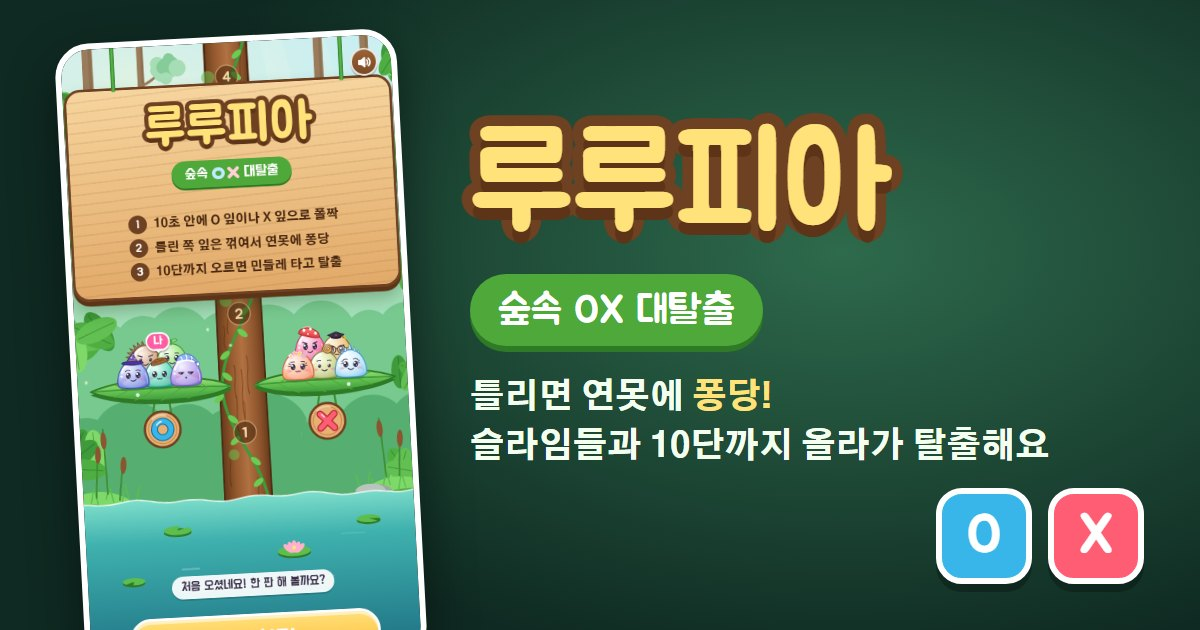
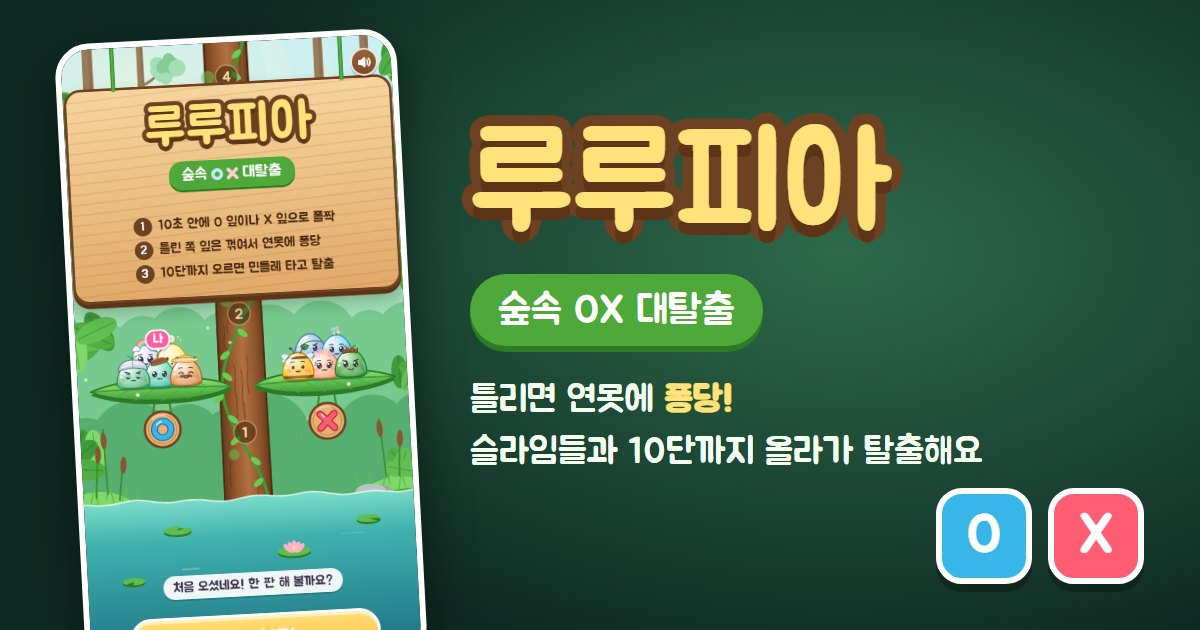
Make Lulupia text larger and switch sentences to the Jua font
Small labels grew and now have a minimum size, and wide screens scale the
question board, title board and results up with the extra room. Questions,
explanations, rules, the results list and speech bubbles use Jua instead of
the narrow display font; big titles, buttons and numbers keep it.

diff --git a/lulupia/index.html b/lulupia/index.html
@@ -21,7 +21,7 @@
 <style>:root{padding-top:env(safe-area-inset-top,0px);padding-bottom:env(safe-area-inset-bottom,0px)}[hidden]{display:none!important}</style>
 <link rel="preconnect" href="https://fonts.googleapis.com">
 <link rel="preconnect" href="https://fonts.gstatic.com" crossorigin>
-<link rel="stylesheet" href="https://fonts.googleapis.com/css2?family=Do+Hyeon&family=Jua&family=Gothic+A1:wght@500;700;800&display=swap">
+<link rel="stylesheet" href="https://fonts.googleapis.com/css2?family=Do+Hyeon&family=Jua&display=swap">
 <style>
 /* 레이아웃 : 화면 가운데 세로로 긴 게임 한 장(9:17). 폰에서는 화면을 꽉 채우고, 넓은 화면에서는 숲 바탕 위에 놓인다.
    게임 안은 calc(var(--u)*1) = 게임 폭의 1%, 세로는 calc(var(--u)*188.9). 숲 세계는 한 장으로 단마다 아래로 내려간다. */
@@ -30,13 +30,13 @@
   --o:#38B6EA; --o-deep:#1A6FA0; --x:#FF5D73; --x-deep:#B8283A; --me:#FF5FA2; --gold:#FFD45A;
   --display:"Do Hyeon","Jua","Apple SD Gothic Neo","Malgun Gothic",sans-serif;
   --logo:"Jua","Do Hyeon","Apple SD Gothic Neo","Malgun Gothic",sans-serif;
-  --body:"Gothic A1","Apple SD Gothic Neo","Malgun Gothic",sans-serif;
+  --body:"Jua","Apple SD Gothic Neo","Malgun Gothic",sans-serif;
   color-scheme:light;
 }
 html{height:100%;box-sizing:border-box;background:var(--shell)}
 body{height:100%;margin:0;background:radial-gradient(90% 60% at 50% 40%,var(--shell-hi),var(--shell) 75%);color:var(--ink);font-family:var(--body);overflow:hidden}
 .shell{height:100%;container-type:size;display:grid;place-items:center}
-.game{position:relative;width:100%;height:100%;--u:min(1cqw,100cqh / 188.9);overflow:hidden;isolation:isolate;user-select:none;-webkit-user-select:none;touch-action:manipulation;-webkit-tap-highlight-color:transparent;font-family:var(--display);color:#fff;background:#A6E2FA;box-shadow:0 0 60px rgba(0,0,0,.4)}
+.game{position:relative;width:100%;height:100%;--u:min(1cqw,100cqh / 188.9);overflow:hidden;isolation:isolate;user-select:none;-webkit-user-select:none;touch-action:manipulation;-webkit-tap-highlight-color:transparent;font-family:var(--logo);color:#fff;background:#A6E2FA;box-shadow:0 0 60px rgba(0,0,0,.4)}
 .game canvas{position:absolute;left:0;display:block;pointer-events:none}
 .world{top:0;transition:transform 1.5s cubic-bezier(.45,.05,.25,1);will-change:transform}
 .water{z-index:5}
@@ -46,9 +46,9 @@ body{height:100%;margin:0;background:radial-gradient(90% 60% at 50% 40%,var(--sh
 .crowd{position:absolute;inset:0;z-index:3;pointer-events:none}
 .sl{position:absolute;left:0;top:0;width:calc(var(--u)*12);height:calc(var(--u)*12);transform-origin:50% 100%;will-change:transform}
 .sl svg{display:block;width:100%;height:100%;overflow:visible}
-.me-tag{position:absolute;left:50%;bottom:96%;translate:-50% 0;font-family:var(--logo);font-size:calc(var(--u)*3.5);line-height:1;color:#fff;background:var(--me);border:calc(var(--u)*.55) solid #fff;border-radius:calc(var(--u)*3);padding:calc(var(--u)*.7) calc(var(--u)*1.7) calc(var(--u)*.5);box-shadow:0 calc(var(--u)*.6) 0 rgba(60,20,40,.25);white-space:nowrap;animation:tagbob 1.1s ease-in-out infinite}
+.me-tag{position:absolute;left:50%;bottom:96%;translate:-50% 0;font-family:var(--logo);font-size:max(12px,calc(var(--u)*3.8));line-height:1;color:#fff;background:var(--me);border:calc(var(--u)*.55) solid #fff;border-radius:calc(var(--u)*3);padding:calc(var(--u)*.7) calc(var(--u)*1.7) calc(var(--u)*.5);box-shadow:0 calc(var(--u)*.6) 0 rgba(60,20,40,.25);white-space:nowrap;animation:tagbob 1.1s ease-in-out infinite}
 .me-tag::after{content:"";position:absolute;left:50%;top:100%;translate:-50% calc(var(--u)*-.1);border:calc(var(--u)*1.3) solid transparent;border-top-color:#fff;border-bottom:0}
-.cnt{position:absolute;display:grid;place-items:center;min-width:calc(var(--u)*6.4);height:calc(var(--u)*6.4);padding:0 calc(var(--u)*1.4);border-radius:calc(var(--u)*3.2);font-family:var(--logo);font-size:calc(var(--u)*3.8);line-height:1;color:#fff;background:var(--ink);border:calc(var(--u)*.5) solid #fff;box-shadow:0 calc(var(--u)*.5) 0 rgba(0,0,0,.2);transition:transform .2s}
+.cnt{position:absolute;display:grid;place-items:center;min-width:calc(var(--u)*6.4);height:calc(var(--u)*6.4);padding:0 calc(var(--u)*1.4);border-radius:calc(var(--u)*3.2);font-family:var(--logo);font-size:max(13px,calc(var(--u)*4));line-height:1;color:#fff;background:var(--ink);border:calc(var(--u)*.5) solid #fff;box-shadow:0 calc(var(--u)*.5) 0 rgba(0,0,0,.2);transition:transform .2s}
 .cnt.bump{transform:scale(1.25)}
 .game[data-state="title"] .cnt{display:none}
 .leaf.broken{pointer-events:none}
@@ -60,7 +60,7 @@ body{height:100%;margin:0;background:radial-gradient(90% 60% at 50% 40%,var(--sh
 .ring{position:absolute;left:calc(var(--u)*-1.4);right:calc(var(--u)*-1.4);top:71%;height:calc(var(--u)*4.6);border-radius:50%;background:repeating-conic-gradient(from 10deg,#FF8DB8 0 30deg,#FFF6FA 0 60deg);border:calc(var(--u)*.45) solid #C9507E;box-shadow:inset 0 calc(var(--u)*-.8) 0 rgba(150,40,80,.25)}
 .ring::after{content:"";position:absolute;left:24%;right:24%;top:20%;height:34%;border-radius:50%;background:rgba(40,60,70,.35)}
 .bob.sink{transition:transform 1.1s ease-in,opacity 1.1s ease-in;transform:translateY(calc(var(--u)*7));opacity:0}
-.say{position:absolute;left:50%;bottom:104%;translate:-50% 0;white-space:nowrap;font-family:var(--body);font-weight:800;font-size:calc(var(--u)*2.9);line-height:1.2;color:var(--ink);background:#fff;border-radius:calc(var(--u)*2.4);padding:calc(var(--u)*1) calc(var(--u)*1.8);box-shadow:0 calc(var(--u)*.5) 0 rgba(0,0,0,.15);animation:say 2.4s ease forwards}
+.say{position:absolute;left:50%;bottom:104%;translate:-50% 0;white-space:nowrap;font-family:var(--body);font-weight:400;font-size:max(12px,calc(var(--u)*3.5*var(--fs,1)));line-height:1.2;color:var(--ink);background:#fff;border-radius:calc(var(--u)*2.4);padding:calc(var(--u)*1) calc(var(--u)*1.8);box-shadow:0 calc(var(--u)*.5) 0 rgba(0,0,0,.15);animation:say 2.4s ease forwards}
 .say::after{content:"";position:absolute;left:50%;top:100%;translate:-50% calc(var(--u)*-.1);border:calc(var(--u)*1) solid transparent;border-top-color:#fff;border-bottom:0}
 .seed{position:absolute;left:50%;bottom:78%;width:calc(var(--u)*11);translate:-50% 0;transform-origin:50% 100%;animation:seedin .5s cubic-bezier(.2,1.6,.4,1) both}
 .motes{position:absolute;inset:0;z-index:1;pointer-events:none}
@@ -68,7 +68,7 @@ body{height:100%;margin:0;background:radial-gradient(90% 60% at 50% 40%,var(--sh
 
 /* 머리 줄 */
 .hud{position:absolute;z-index:9;left:calc(var(--u)*4);right:calc(var(--u)*4);top:calc(var(--u)*3.4);display:flex;align-items:center;gap:calc(var(--u)*2);pointer-events:none}
-.chip{display:flex;align-items:center;gap:calc(var(--u)*1.6);height:calc(var(--u)*8.4);padding:0 calc(var(--u)*2.8);border-radius:calc(var(--u)*4.2);font-size:calc(var(--u)*4.4);line-height:1;white-space:nowrap;color:#FFF3D6;background:linear-gradient(#9A6236,#7A4A26);border:calc(var(--u)*.55) solid rgba(255,255,255,.85);box-shadow:0 calc(var(--u)*.7) 0 rgba(0,0,0,.2)}
+.chip{display:flex;align-items:center;gap:calc(var(--u)*1.6);height:calc(var(--u)*8.4);padding:0 calc(var(--u)*2.8);border-radius:calc(var(--u)*4.2);font-size:max(14px,calc(var(--u)*4.4));line-height:1;white-space:nowrap;color:#FFF3D6;background:linear-gradient(#9A6236,#7A4A26);border:calc(var(--u)*.55) solid rgba(255,255,255,.85);box-shadow:0 calc(var(--u)*.7) 0 rgba(0,0,0,.2)}
 .chip.lv b{font-weight:400;font-size:calc(var(--u)*4.8);min-width:calc(var(--u)*6.6)}
 .pips{display:flex;gap:calc(var(--u)*.55)}
 .pips i{width:calc(var(--u)*1.5);height:calc(var(--u)*3.6);border-radius:calc(var(--u)*.75);background:rgba(255,255,255,.3)}
@@ -84,21 +84,21 @@ body[data-mute] .snd .off{display:block}
 .game[data-state="title"] .chip.lv,.game[data-state="title"] .chip.alive{visibility:hidden}
 
 /* 문제 판 : 덩굴에 매달린 나무판 */
-.card{position:absolute;z-index:8;left:50%;width:min(calc(100% - calc(var(--u)*10)),calc(var(--u)*150));translate:-50% 0;top:calc(var(--u)*14);padding:calc(var(--u)*3.4) calc(var(--u)*4) calc(var(--u)*3.6);display:flex;flex-direction:column;gap:calc(var(--u)*2.4);color:#4A2810;border-radius:calc(var(--u)*4.4);border:calc(var(--u)*.9) solid var(--wood);background:radial-gradient(circle at calc(var(--u)*3.2) calc(var(--u)*3.2),var(--wood-dk) calc(var(--u)*.9),transparent calc(var(--u)*1.1)),radial-gradient(circle at calc(100% - calc(var(--u)*3.2)) calc(var(--u)*3.2),var(--wood-dk) calc(var(--u)*.9),transparent calc(var(--u)*1.1)),repeating-linear-gradient(176deg,rgba(122,74,34,.13) 0 calc(var(--u)*.45),transparent calc(var(--u)*.45) calc(var(--u)*3.1)),linear-gradient(#F7D59E,#E2AA6A);box-shadow:0 calc(var(--u)*1.3) 0 var(--wood-dk),0 calc(var(--u)*3) calc(var(--u)*5) rgba(30,60,20,.28)}
+.card{position:absolute;z-index:8;left:50%;width:min(calc(100% - calc(var(--u)*10)),calc(var(--u)*150*var(--fs,1)));translate:-50% 0;top:calc(var(--u)*14);padding:calc(var(--u)*3.4) calc(var(--u)*4) calc(var(--u)*3.6);display:flex;flex-direction:column;gap:calc(var(--u)*2.4);color:#4A2810;border-radius:calc(var(--u)*4.4);border:calc(var(--u)*.9) solid var(--wood);background:radial-gradient(circle at calc(var(--u)*3.2) calc(var(--u)*3.2),var(--wood-dk) calc(var(--u)*.9),transparent calc(var(--u)*1.1)),radial-gradient(circle at calc(100% - calc(var(--u)*3.2)) calc(var(--u)*3.2),var(--wood-dk) calc(var(--u)*.9),transparent calc(var(--u)*1.1)),repeating-linear-gradient(176deg,rgba(122,74,34,.13) 0 calc(var(--u)*.45),transparent calc(var(--u)*.45) calc(var(--u)*3.1)),linear-gradient(#F7D59E,#E2AA6A);box-shadow:0 calc(var(--u)*1.3) 0 var(--wood-dk),0 calc(var(--u)*3) calc(var(--u)*5) rgba(30,60,20,.28)}
 .card::before,.card::after,.sign::before,.sign::after{content:"";position:absolute;top:calc(var(--u)*-16);width:calc(var(--u)*1.3);height:calc(var(--u)*16.6);border-radius:calc(var(--u)*.7);background:linear-gradient(90deg,#2F7A26,#5DBE4E 50%,#2F7A26);z-index:-1}
 .card::before,.sign::before{left:14%}
 .card::after,.sign::after{right:14%}
 .c-row{display:flex;align-items:center;gap:calc(var(--u)*2)}
-.tag{font-size:calc(var(--u)*3.9);line-height:1;padding:calc(var(--u)*1.2) calc(var(--u)*2.6) calc(var(--u)*1);color:#fff;background:var(--leaf);border-radius:calc(var(--u)*3.4) calc(var(--u)*.6) calc(var(--u)*3.4) calc(var(--u)*.6);box-shadow:0 calc(var(--u)*.5) 0 var(--leaf-dk)}
-.qn{font-size:calc(var(--u)*3.9);opacity:.75}
+.tag{font-size:max(14px,calc(var(--u)*4.1*var(--fs,1)));line-height:1;padding:calc(var(--u)*1.2) calc(var(--u)*2.6) calc(var(--u)*1);color:#fff;background:var(--leaf);border-radius:calc(var(--u)*3.4) calc(var(--u)*.6) calc(var(--u)*3.4) calc(var(--u)*.6);box-shadow:0 calc(var(--u)*.5) 0 var(--leaf-dk)}
+.qn{font-size:max(14px,calc(var(--u)*4.1*var(--fs,1)));opacity:.75}
 .clock{margin-left:auto;display:grid;place-items:center;width:calc(var(--u)*10);height:calc(var(--u)*10);border-radius:50%;font-size:calc(var(--u)*5.6);line-height:1;background:#FFF6E2;border:calc(var(--u)*.8) solid var(--wood);color:#4A2810;box-shadow:0 calc(var(--u)*.6) 0 var(--wood-dk)}
 .clock.hurry{animation:hurry .5s ease-in-out infinite;background:#FFE0D6;color:#C2331E;border-color:#C2331E}
-.q{margin:0;font-size:calc(var(--u)*5.9);line-height:1.34;word-break:keep-all;overflow-wrap:break-word;text-wrap:balance}
-.q.long{font-size:calc(var(--u)*5.2)}
+.q{margin:0;font-size:max(19px,calc(var(--u)*6.1*var(--fs,1)));line-height:1.34;word-break:keep-all;overflow-wrap:break-word;text-wrap:balance}
+.q.long{font-size:max(18px,calc(var(--u)*5.5*var(--fs,1)))}
 .bar{height:calc(var(--u)*2.6);border-radius:calc(var(--u)*1.3);overflow:hidden;background:rgba(94,52,24,.22)}
 .bar i{display:block;height:100%;transform-origin:left center;background:linear-gradient(90deg,#3E9A3A,#7FD86A)}
-.ans{display:flex;gap:calc(var(--u)*2.2);align-items:baseline;padding-right:calc(var(--u)*15);font-family:var(--body);font-weight:700;font-size:calc(var(--u)*3.6);line-height:1.5}
-.ans b{flex:none;font-family:var(--display);font-weight:400;font-size:calc(var(--u)*4.6);color:var(--leaf-dk)}
+.ans{display:flex;gap:calc(var(--u)*2.2);align-items:baseline;padding-right:calc(var(--u)*18);font-family:var(--body);font-weight:400;font-size:max(15px,calc(var(--u)*4*var(--fs,1)));line-height:1.5}
+.ans b{flex:none;font-family:var(--display);font-weight:400;font-size:max(17px,calc(var(--u)*4.8*var(--fs,1)));color:var(--leaf-dk)}
 .stamp{position:absolute;right:calc(var(--u)*3.4);bottom:calc(var(--u)*2.4);display:grid;place-items:center;width:calc(var(--u)*15);height:calc(var(--u)*15);border-radius:50%;border:calc(var(--u)*1) solid currentColor;rotate:-14deg;background:rgba(255,255,255,.55)}
 .stamp .glyph{--gs:calc(var(--u)*7)}
 .stamp.o{color:var(--o-deep)}
@@ -128,30 +128,30 @@ body[data-mute] .snd .off{display:block}
 .startbtn:active,.cta:active{transform:translateY(calc(var(--u)*1.2));box-shadow:0 calc(var(--u)*.4) 0 #C9790C,inset 0 calc(var(--u)*1) 0 rgba(255,255,255,.55)}
 .cta.sub{background:linear-gradient(#9BE36E,#4FA83A);box-shadow:0 calc(var(--u)*1.6) 0 var(--leaf-dk),inset 0 calc(var(--u)*1) 0 rgba(255,255,255,.45);text-shadow:0 calc(var(--u)*.5) 0 rgba(20,80,20,.4)}
 .cta.sub:active{box-shadow:0 calc(var(--u)*.4) 0 var(--leaf-dk),inset 0 calc(var(--u)*1) 0 rgba(255,255,255,.45)}
-.watchbar{position:absolute;z-index:8;left:50%;translate:-50% 0;width:min(calc(100% - calc(var(--u)*10)),calc(var(--u)*100));bottom:calc(var(--u)*4.6);height:calc(var(--u)*17);display:flex;align-items:center;gap:calc(var(--u)*3);padding:0 calc(var(--u)*3) 0 calc(var(--u)*5);border-radius:calc(var(--u)*6.5);background:rgba(40,60,50,.72);border:calc(var(--u)*.6) solid rgba(255,255,255,.7);font-size:calc(var(--u)*4.6)}
+.watchbar{position:absolute;z-index:8;left:50%;translate:-50% 0;width:min(calc(100% - calc(var(--u)*10)),calc(var(--u)*100));bottom:calc(var(--u)*4.6);height:calc(var(--u)*17);display:flex;align-items:center;gap:calc(var(--u)*3);padding:0 calc(var(--u)*3) 0 calc(var(--u)*5);border-radius:calc(var(--u)*6.5);background:rgba(40,60,50,.72);border:calc(var(--u)*.6) solid rgba(255,255,255,.7);font-size:max(16px,calc(var(--u)*4.8*var(--fs,1)))}
 .watchbar span{flex:1;min-width:0}
 .watchbar .cta{height:calc(var(--u)*11);padding:0 calc(var(--u)*4);font-size:calc(var(--u)*4.6);border-width:calc(var(--u)*.6);border-radius:calc(var(--u)*5)}
 
 /* 처음 화면 */
-.sign{position:absolute;z-index:8;left:50%;width:min(calc(100% - calc(var(--u)*12)),calc(var(--u)*112));translate:-50% 0;top:calc(var(--u)*12);padding:calc(var(--u)*5) calc(var(--u)*5) calc(var(--u)*4.6);display:flex;flex-direction:column;align-items:center;gap:calc(var(--u)*3);border-radius:calc(var(--u)*5);border:calc(var(--u)*.9) solid var(--wood);background:repeating-linear-gradient(176deg,rgba(122,74,34,.12) 0 calc(var(--u)*.45),transparent calc(var(--u)*.45) calc(var(--u)*3.1)),linear-gradient(#F7D59E,#E2AA6A);box-shadow:0 calc(var(--u)*1.4) 0 var(--wood-dk),0 calc(var(--u)*3) calc(var(--u)*5) rgba(30,60,20,.3)}
+.sign{position:absolute;z-index:8;left:50%;width:min(calc(100% - calc(var(--u)*12)),calc(var(--u)*112*var(--fs,1)));translate:-50% 0;top:calc(var(--u)*12);padding:calc(var(--u)*5) calc(var(--u)*5) calc(var(--u)*4.6);display:flex;flex-direction:column;align-items:center;gap:calc(var(--u)*3);border-radius:calc(var(--u)*5);border:calc(var(--u)*.9) solid var(--wood);background:repeating-linear-gradient(176deg,rgba(122,74,34,.12) 0 calc(var(--u)*.45),transparent calc(var(--u)*.45) calc(var(--u)*3.1)),linear-gradient(#F7D59E,#E2AA6A);box-shadow:0 calc(var(--u)*1.4) 0 var(--wood-dk),0 calc(var(--u)*3) calc(var(--u)*5) rgba(30,60,20,.3)}
 .logo{margin:0;font-family:var(--logo);font-weight:400;font-size:calc(var(--u)*15.5);line-height:1;letter-spacing:calc(var(--u)*.4);color:#FFE27A;paint-order:stroke fill;-webkit-text-stroke:calc(var(--u)*2.6) var(--wood);text-shadow:0 calc(var(--u)*1.4) 0 var(--wood-dk)}
-.ribbon{display:flex;align-items:center;gap:calc(var(--u)*1.6);margin-top:calc(var(--u)*-1);padding:calc(var(--u)*1.4) calc(var(--u)*4) calc(var(--u)*1.2);border-radius:calc(var(--u)*4);background:var(--leaf);box-shadow:0 calc(var(--u)*.6) 0 var(--leaf-dk);font-size:calc(var(--u)*4.6);color:#fff}
+.ribbon{display:flex;align-items:center;gap:calc(var(--u)*1.6);margin-top:calc(var(--u)*-1);padding:calc(var(--u)*1.4) calc(var(--u)*4) calc(var(--u)*1.2);border-radius:calc(var(--u)*4);background:var(--leaf);box-shadow:0 calc(var(--u)*.6) 0 var(--leaf-dk);font-size:max(16px,calc(var(--u)*4.8*var(--fs,1)));color:#fff}
 .ribbon .glyph{--gs:calc(var(--u)*3.8);margin:0 calc(var(--u)*-.4)}
 .ribbon .o{color:#BFEAFF}
 .ribbon .x{color:#FFD0D6}
-.how{list-style:none;margin:0;padding:0;display:grid;gap:calc(var(--u)*1.6);font-family:var(--body);font-weight:800;font-size:calc(var(--u)*3.7);line-height:1.35;color:#4A2810}
+.how{list-style:none;margin:0;padding:0;display:grid;gap:calc(var(--u)*1.6);font-family:var(--body);font-weight:400;font-size:max(15px,calc(var(--u)*4.1*var(--fs,1)));line-height:1.35;color:#4A2810}
 .how li{display:flex;align-items:center;gap:calc(var(--u)*2)}
-.how b{flex:none;display:grid;place-items:center;width:calc(var(--u)*5.6);height:calc(var(--u)*5.6);border-radius:50%;font-family:var(--display);font-weight:400;font-size:calc(var(--u)*3.6);color:#fff;background:var(--wood)}
+.how b{flex:none;display:grid;place-items:center;width:calc(var(--u)*5.6);height:calc(var(--u)*5.6);border-radius:50%;font-family:var(--display);font-weight:400;font-size:max(13px,calc(var(--u)*3.8*var(--fs,1)));color:#fff;background:var(--wood)}
 .recs{position:absolute;z-index:8;left:calc(var(--u)*4);right:calc(var(--u)*4);bottom:calc(var(--u)*27);display:flex;flex-wrap:wrap;justify-content:center;gap:calc(var(--u)*1.6)}
-.recs span{font-size:calc(var(--u)*3.8);line-height:1;padding:calc(var(--u)*1.6) calc(var(--u)*2.8) calc(var(--u)*1.4);border-radius:calc(var(--u)*3.4);background:rgba(255,255,255,.92);color:var(--ink);box-shadow:0 calc(var(--u)*.5) 0 rgba(0,0,0,.15)}
+.recs span{font-size:max(14px,calc(var(--u)*4*var(--fs,1)));line-height:1;padding:calc(var(--u)*1.6) calc(var(--u)*2.8) calc(var(--u)*1.4);border-radius:calc(var(--u)*3.4);background:rgba(255,255,255,.92);color:var(--ink);box-shadow:0 calc(var(--u)*.5) 0 rgba(0,0,0,.15)}
 .recs b{font-weight:400;color:#C2410C}
 
-.toast{position:absolute;z-index:9;left:50%;top:calc(var(--u)*68);translate:-50% 0;max-width:calc(var(--u)*86);text-align:center;font-size:calc(var(--u)*5);line-height:1.3;padding:calc(var(--u)*2.6) calc(var(--u)*4.4) calc(var(--u)*2.4);border-radius:calc(var(--u)*4.4);color:var(--ink);background:#fff;box-shadow:0 calc(var(--u)*1) 0 rgba(0,0,0,.18);pointer-events:none}
+.toast{position:absolute;z-index:9;left:50%;top:calc(var(--u)*68);translate:-50% 0;max-width:calc(var(--u)*86*var(--fs,1));text-align:center;font-size:max(17px,calc(var(--u)*5.2*var(--fs,1)));line-height:1.3;padding:calc(var(--u)*2.6) calc(var(--u)*4.4) calc(var(--u)*2.4);border-radius:calc(var(--u)*4.4);color:var(--ink);background:#fff;box-shadow:0 calc(var(--u)*1) 0 rgba(0,0,0,.18);pointer-events:none}
 .toast.show{animation:toast 2s ease forwards}
 
 .banner{position:absolute;inset:0;z-index:10;display:grid;place-items:center;align-content:center;gap:calc(var(--u)*3);padding:0 calc(var(--u)*8);text-align:center;background:radial-gradient(70% 45% at 50% 46%,rgba(20,30,50,.55),rgba(20,30,50,0) 100%)}
 .b-title{margin:0;font-size:calc(var(--u)*17);line-height:1;letter-spacing:calc(var(--u)*.3);paint-order:stroke fill;-webkit-text-stroke:calc(var(--u)*2.4) #1E5E7A;color:#fff;text-shadow:0 calc(var(--u)*1.6) 0 rgba(0,0,0,.22)}
-.b-sub{margin:0;font-family:var(--body);font-weight:800;font-size:calc(var(--u)*4.2);line-height:1.5;padding:calc(var(--u)*2.2) calc(var(--u)*4);border-radius:calc(var(--u)*4);background:rgba(255,255,255,.95);color:var(--ink);box-shadow:0 calc(var(--u)*.8) 0 rgba(0,0,0,.18)}
+.b-sub{margin:0;font-family:var(--body);font-weight:400;font-size:max(15px,calc(var(--u)*4.4*var(--fs,1)));line-height:1.5;padding:calc(var(--u)*2.2) calc(var(--u)*4);border-radius:calc(var(--u)*4);background:rgba(255,255,255,.95);color:var(--ink);box-shadow:0 calc(var(--u)*.8) 0 rgba(0,0,0,.18)}
 .b-btns{display:flex;gap:calc(var(--u)*3)}
 .b-btns .cta{height:calc(var(--u)*13);padding:0 calc(var(--u)*5);font-size:calc(var(--u)*5.4)}
 .banner.in .b-title{animation:titlepop .6s cubic-bezier(.2,1.5,.4,1) both}
@@ -160,7 +160,7 @@ body[data-mute] .snd .off{display:block}
 
 /* 결과판 */
 .result{position:absolute;inset:0;z-index:11;display:grid;place-items:center;padding:calc(var(--u)*6) calc(var(--u)*5);background:rgba(20,40,30,.55);backdrop-filter:blur(1.5px)}
-.r-card{position:relative;width:100%;max-width:calc(var(--u)*112);max-height:100%;overflow-y:auto;overscroll-behavior:contain;display:flex;flex-direction:column;align-items:center;gap:calc(var(--u)*3);padding:calc(var(--u)*5) calc(var(--u)*5) calc(var(--u)*5.4);border-radius:calc(var(--u)*5);border:calc(var(--u)*.9) solid var(--wood);background:repeating-linear-gradient(176deg,rgba(122,74,34,.1) 0 calc(var(--u)*.45),transparent calc(var(--u)*.45) calc(var(--u)*3.1)),linear-gradient(#FBE3B6,#EBBE84);box-shadow:0 calc(var(--u)*1.4) 0 var(--wood-dk);color:#4A2810;animation:fadeup .45s both}
+.r-card{position:relative;width:100%;max-width:calc(var(--u)*112*var(--fs,1));max-height:100%;overflow-y:auto;overscroll-behavior:contain;display:flex;flex-direction:column;align-items:center;gap:calc(var(--u)*3);padding:calc(var(--u)*5) calc(var(--u)*5) calc(var(--u)*5.4);border-radius:calc(var(--u)*5);border:calc(var(--u)*.9) solid var(--wood);background:repeating-linear-gradient(176deg,rgba(122,74,34,.1) 0 calc(var(--u)*.45),transparent calc(var(--u)*.45) calc(var(--u)*3.1)),linear-gradient(#FBE3B6,#EBBE84);box-shadow:0 calc(var(--u)*1.4) 0 var(--wood-dk);color:#4A2810;animation:fadeup .45s both}
 .r-title{margin:0;font-size:calc(var(--u)*11);line-height:1.05;text-align:center;paint-order:stroke fill;-webkit-text-stroke:calc(var(--u)*1.8) var(--wood);color:#FFE27A;text-shadow:0 calc(var(--u)*1) 0 var(--wood-dk);text-wrap:balance}
 .r-card[data-k="fail"] .r-title{color:#BFEAFF;-webkit-text-stroke-color:#1E5E7A;text-shadow:0 calc(var(--u)*1) 0 #164A60}
 .r-hero{position:relative;width:calc(var(--u)*30);height:calc(var(--u)*30)}
@@ -168,24 +168,24 @@ body[data-mute] .snd .off{display:block}
 .r-hero .ring{top:76%;left:calc(var(--u)*-2);right:calc(var(--u)*-2);height:calc(var(--u)*7)}
 .r-card[data-k="fail"] .r-hero svg{clip-path:inset(-30% -20% 21% -20%)}
 .r-card:not([data-k="fail"]) .r-hero .ring{display:none}
-.r-new{margin:calc(var(--u)*-1) 0 0;font-size:calc(var(--u)*4.4);line-height:1;padding:calc(var(--u)*1.6) calc(var(--u)*3.4) calc(var(--u)*1.4);border-radius:calc(var(--u)*3.4);color:#fff;background:linear-gradient(#FF9A5A,#F06A2A);box-shadow:0 calc(var(--u)*.6) 0 #B8460E;animation:titlepop .6s .3s both}
+.r-new{margin:calc(var(--u)*-1) 0 0;font-size:max(15px,calc(var(--u)*4.4*var(--fs,1)));line-height:1;padding:calc(var(--u)*1.6) calc(var(--u)*3.4) calc(var(--u)*1.4);border-radius:calc(var(--u)*3.4);color:#fff;background:linear-gradient(#FF9A5A,#F06A2A);box-shadow:0 calc(var(--u)*.6) 0 #B8460E;animation:titlepop .6s .3s both}
 .r-stats{width:100%;display:grid;grid-template-columns:repeat(3,1fr);gap:calc(var(--u)*2)}
 .r-stats div{display:flex;flex-direction:column;align-items:center;gap:calc(var(--u)*1.2);padding:calc(var(--u)*2.6) calc(var(--u)*1) calc(var(--u)*2.2);border-radius:calc(var(--u)*3.4);background:rgba(255,255,255,.6)}
 .r-stats b{font-weight:400;font-size:calc(var(--u)*7);line-height:1;color:var(--ink);font-variant-numeric:tabular-nums}
-.r-stats span{font-family:var(--body);font-weight:800;font-size:calc(var(--u)*3);color:#7A4A26}
+.r-stats span{font-family:var(--body);font-weight:400;font-size:max(12px,calc(var(--u)*3.5*var(--fs,1)));color:#7A4A26}
 .r-list{width:100%;font-family:var(--body)}
-.r-list summary{cursor:pointer;list-style:none;display:flex;align-items:center;justify-content:center;gap:calc(var(--u)*1.6);font-family:var(--display);font-size:calc(var(--u)*4.4);padding:calc(var(--u)*2.2) 0;border-radius:calc(var(--u)*3);background:rgba(255,255,255,.45)}
+.r-list summary{cursor:pointer;list-style:none;display:flex;align-items:center;justify-content:center;gap:calc(var(--u)*1.6);font-family:var(--logo);font-size:max(16px,calc(var(--u)*4.6*var(--fs,1)));padding:calc(var(--u)*2.2) 0;border-radius:calc(var(--u)*3);background:rgba(255,255,255,.45)}
 .r-list summary::-webkit-details-marker{display:none}
 .r-list summary::after{content:"";width:calc(var(--u)*1.8);height:calc(var(--u)*1.8);border-right:calc(var(--u)*.6) solid currentColor;border-bottom:calc(var(--u)*.6) solid currentColor;rotate:45deg;translate:0 calc(var(--u)*-.6);transition:rotate .2s}
 .r-list[open] summary::after{rotate:225deg;translate:0 calc(var(--u)*.4)}
 .r-list ol{list-style:none;margin:calc(var(--u)*2.4) 0 0;padding:0;display:grid;gap:calc(var(--u)*2)}
-.r-list li{display:grid;grid-template-columns:calc(var(--u)*7) 1fr;gap:calc(var(--u)*2.2);align-items:start;padding:calc(var(--u)*2.4);border-radius:calc(var(--u)*3);background:rgba(255,255,255,.62)}
+.r-list li{display:grid;grid-template-columns:calc(var(--u)*7*var(--fs,1)) 1fr;gap:calc(var(--u)*2.2);align-items:start;padding:calc(var(--u)*2.4);border-radius:calc(var(--u)*3);background:rgba(255,255,255,.62)}
 .r-list li .mk{display:grid;place-items:center;width:calc(var(--u)*7);height:calc(var(--u)*7);border-radius:50%;color:#fff}
 .r-list li .mk.o{background:var(--o)}
 .r-list li .mk.x{background:var(--x)}
 .r-list li .mk .glyph{--gs:calc(var(--u)*3.4)}
-.r-list li p{margin:0;font-size:calc(var(--u)*3.4);line-height:1.5;font-weight:800;color:var(--ink);word-break:keep-all}
-.r-list li small{display:block;margin-top:calc(var(--u)*.6);font-size:calc(var(--u)*3.1);line-height:1.5;font-weight:700;color:#7A4A26}
+.r-list li p{margin:0;font-size:max(14px,calc(var(--u)*4*var(--fs,1)));line-height:1.5;font-weight:400;color:var(--ink);word-break:keep-all}
+.r-list li small{display:block;margin-top:calc(var(--u)*.6);font-size:max(13px,calc(var(--u)*3.6*var(--fs,1)));line-height:1.5;font-weight:400;color:#7A4A26}
 .r-list li em{font-style:normal;color:#C2331E}
 .r-list li.miss{box-shadow:inset calc(var(--u)*.9) 0 0 #FF5D73}
 .r-btns{width:100%;display:grid;grid-template-columns:1fr 1fr;gap:calc(var(--u)*3)}
@@ -212,6 +212,8 @@ body[data-mute] .snd .off{display:block}
 .npc[data-face="cry"] .nb{animation:n-cry .5s both ease-in}
 .npc[data-face="cry"] .tears{animation:n-tear .7s ease-in infinite}
 
+/* 큰 제목, 버튼, 숫자는 도현 */
+.b-title,.r-title,.chip,.clock,.startbtn,.cta,.r-stats b,.how b{font-family:var(--display)}
 @keyframes boing{0%,62%,100%{transform:none}70%{transform:scale(1.08,.9)}78%{transform:translateY(-12px) scale(.94,1.08)}86%{transform:translateY(0) scale(1.1,.88)}93%{transform:scale(.97,1.04)}}
 @keyframes shade{0%,62%,100%{transform:none}78%{transform:scale(.72);opacity:.6}86%{transform:scale(1.1)}}
 @keyframes blink{0%,94%,100%{transform:scaleY(0)}97%{transform:scaleY(1)}}
@@ -1112,6 +1114,7 @@ class Game {
     this.spread = SW > 110 ? Math.min(42, 25 + (SW - 100) * .14) : 25;
     this.padX = { O: this.C - this.spread, X: this.C + this.spread };
     this.root.style.setProperty('--spread', this.spread.toFixed(2));
+    this.root.style.setProperty('--fs', Math.min(1.35, Math.max(1, 1 + (SW - 100) / 250)).toFixed(3));
     for (const S of ['O', 'X']) { this.pads[S].style.left = P(this.padX[S] - 22); this.pads[S].style.top = P(STAND - 6); }
     this.world.style.top = P(WORLD_TOP); this.water.style.top = P(WATER_TOP);
     this.world.style.transition = 'none'; this.world.style.transform = `translateY(${P(this.level * STEP)})`; void this.world.offsetWidth; this.world.style.transition = '';
